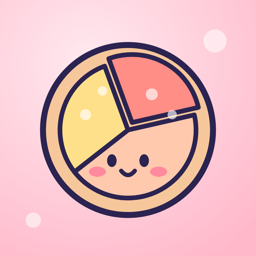
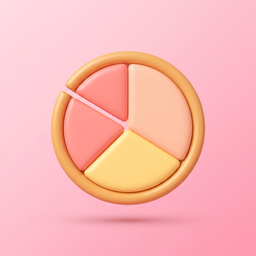
Product site on the new look; handoff rewritten to the current state

diff --git a/marketing/site/index.html b/marketing/site/index.html
@@ -37,7 +37,7 @@
 <div class="lang"><a href="?lang=en">EN</a><a href="?lang=ja">日本語</a></div>
 <main>
   <section class="hero">
-    <img class="icon" src="icon.png" alt="Real Quick icon — a pizza that is also a pie chart">
+    <img class="icon" src="icon.png" alt="Real Quick icon — a pizza that is a pie chart">
     <h1 data-i18n="h1">Snap your food.<br>That’s it.</h1>
     <p class="sub" data-i18n="sub">Real Quick – the fastest calorie tracker. One tap takes the photo; calories and macros appear while you eat.</p>
     <div id="live" class="cta" hidden>
@@ -62,7 +62,7 @@
   <section class="points">
     <div class="point"><b data-i18n="p1t">One button</b><span data-i18n="p1">Tap it and forget it. A live mini camera sits next to it, so the photo is instant.</span></div>
     <div class="point"><b data-i18n="p2t">Lock Screen snaps</b><span data-i18n="p2">Add the Snap widget or the iOS 18 control and track without even opening the app.</span></div>
-    <div class="point"><b data-i18n="p3t">A colour for every day</b><span data-i18n="p3">Pastel food doodles by day, a soft landscape by night. Swipe up and down through your week.</span></div>
+    <div class="point"><b data-i18n="p3t">A colour for every day</b><span data-i18n="p3">A soft colour and one object by day, a calm sheet by night. Swipe up and down through your week.</span></div>
     <div class="point"><b data-i18n="p4t">No account</b><span data-i18n="p4">Your diary stays on your phone. Photos are only used to count your food.</span></div>
   </section>
 
@@ -83,7 +83,7 @@
       email: 'メールアドレス', join: 'リリース時に知らせて', ok: '🍕 登録しました。リリース時に一度だけメールします。',
       p1t: 'ボタンひとつ', p1: 'タップしたら忘れてOK。横の小さなカメラで、すぐに撮影できます。',
       p2t: 'ロック画面から撮影', p2: '「撮影」ウィジェットやiOS 18のコントロールで、アプリを開かずに記録。',
-      p3t: '毎日ちがう色', p3: '昼はパステルの食べものイラスト、夜はやさしい景色。上下スワイプで1週間をめぐれます。',
+      p3t: '毎日ちがう色', p3: '昼はやさしい色とひとつのオブジェ、夜は落ち着いた画面。上下スワイプで1週間をめぐれます。',
       p4t: 'アカウント不要', p4: '記録は端末の中だけ。写真は計算のためだけに使われます。',
       privacy: 'プライバシー', support: 'サポート'
     }

diff --git a/HANDOFF.md b/HANDOFF.md
@@ -1,238 +1,57 @@
 # Real Quick — handoff
 
-Everything below needs your Apple ID, Google account, money, a decision only
-you should make, or credentials that were not available in the cloud session
-that built this (no `app-builder/.env`, no Mac, no VPS key). Everything else
-is done and committed: app, widgets, gateway + tests, icon, listings (en +
-ja), privacy audit, hosted pages, product site, store screenshots, the
-subscription review screenshot, the Play set and the portfolio SQL.
+State on 26 Oct 2026, after the redesign (soft-clay look, Plus Jakarta Sans,
+one soft-3D object per weekday, new icon — see `marketing/brand.md`).
 
-## The list
+## Done
 
-1. **Run the three deploys** the cloud session could not reach (gateway,
-   legal pages, product site + waitlist record).
-2. **Pick the AI model** (one env line on the server, no release needed).
-3. **Build and sign iOS** (team id, prebuild, archive).
-4. **App Store Connect:** agreement, app record, subscription products,
-   listing, submit.
-5. **Google Play:** app, subscriptions, service account, listing, submit.
-6. **Verify on real devices:** snap, widgets, trial.
+- **Gateway** live at `https://realquick.lab.karolkrakowski.pl` (VPS port
+  8099, `server/deploy.sh --key`), model Opus 5.5, `/healthz` ok.
+- **Legal pages** on karolkrakowski.pl (`apps/real-quick/privacy.htm`,
+  `support.htm`), **product site** + waitlist record, **Play feature
+  graphic** and 512 icon (`marketing/play/out/graphics/`).
+- **App Store Connect** (app id 6827108476), all through
+  `marketing/appstore/asc-setup.py`: free price, 175 territories, category,
+  copyright, en-US + ja listing, review contact and notes, both
+  subscriptions (group *Real Quick Pro*, prices in every territory — US
+  $4.99 / $29.99, Japan ¥800 / ¥5,000 — 1-week free trial, review
+  screenshots), age rating 4+. Screenshots: `asc-setup.py shots`.
+- **Builds**: 1 (the first look) and 2 (the redesign) uploaded with
+  `xcodebuild archive` + `-exportArchive` (`app/ios/build/ship/export.plist`);
+  signing through the Xcode account, team H85T7F9AS6. The widget target
+  compiles; both targets carry the App Group.
 
-Optional: the image prompts at the end, for richer brand art.
+## Before "Submit for Review"
 
----
+1. **Anthropic credits.** The key in `app-builder/.env` is out of credit;
+   every count answers `upstream`. App Review will snap a plate. Top up,
+   then check: a typed meal through `/v1/analyze` returns items.
+2. **App Privacy** answers in App Store Connect — not in the API. Fill from
+   `marketing/appstore/app-privacy.md`.
+3. Attach build 2 to version 1.0 and submit:
+   `app-builder/.venv/bin/python app-builder/asc.py version attach-build com.latovi.realquick --build 2`
+   then `… asc.py submit com.latovi.realquick`.
 
-### 1. Run the three deploys
+## Then
 
-Where: your Mac, in the workspace that has `app-builder/` with its `.env`
-Prereq: none
+- **Pick the model** (`/etc/realquick/gateway.env`, `MODEL=`, restart the
+  service). Opus 5.5 ships; Haiku 5.5 is ~40× cheaper and matters at ~10
+  photos a day per Pro user. `server/eval.py` compares them on your own
+  weighed meals.
+- **Google Play**: see `marketing/play/listing.md`; build with
+  `npx eas-cli build -p android --profile production`; receipt verification
+  needs a service-account JSON on the VPS (`GOOGLE_SERVICE_ACCOUNT_FILE`).
+- **Verify on devices**: snap, Lock Screen *Snap* widget and the iOS 18
+  control, Today widget, the trial with a sandbox account.
+- **Portfolio**: `python3 app-builder/portfolio.py real-quick` and
+  `marketing/portfolio.sql` once the app is live (needs the store link).
 
-1. `cd real-quick/server && ./deploy.sh --key` — installs the gateway on the
-   VPS (port 8099, checks the port is free first), writes
-   `/etc/realquick/gateway.env` with `ANTHROPIC_API_KEY` from
-   `app-builder/.env`, appends the Caddy block, pre-creates its log file.
-   Prints `/healthz`; expect `"key": true, "root": true`.
-2. `python3 app-builder/deploy-web.py` from `real-quick/` — uploads
-   `marketing/web/apps/real-quick/{privacy,support}.htm`. Then copy both files
-   into `~/src/karolkrakowski/apps/real-quick/` and commit them there
-   (WEBSITE.md §5 — the site deploys with `--delete`).
-3. `python3 app-builder/deploy-site.py realquick real-quick/marketing/site`,
-   then in `https://waitlist.lab.karolkrakowski.pl/_/` ▸ `apps` ▸ New record:
-   `slug = realquick`, `name = Real Quick`,
-   `site_url = https://realquick.lab.karolkrakowski.pl`.
-4. Portfolio: `python3 app-builder/portfolio.py real-quick` (uploads the
-   webp images), then paste `marketing/portfolio.sql` into phpMyAdmin.
+## Not done, honestly
 
-Verify: `curl https://realquick.lab.karolkrakowski.pl/healthz`; both legal
-URLs return 200; the site shows the waitlist form (`?force=live` shows badges).
-
-### 2. Pick the AI model
-
-Where: the VPS, `/etc/realquick/gateway.env`
-Prereq: 1
-
-You asked about Perplexity, so here is the comparison I based the design on:
-
-- **Perplexity (Sonar)** accepts images but is built around web search; every
-  call pays a per-request search fee on top of tokens, answers are slower, and
-  structured JSON is less reliable. Its real strength — looking up branded or
-  restaurant items — matters for *typed* meals, not photos. Supported as
-  `PROVIDER=perplexity` if you want to try it.
-- **Claude** (default, `PROVIDER=anthropic`): strong vision, guaranteed JSON
-  via structured outputs, prompt caching, and the key is already in
-  `app-builder/.env`. Per photo: Haiku 5.5 ≈ $0.0004, Sonnet 5.5 ≈ $0.007,
-  Opus 5.5 ≈ $0.014.
-- Dedicated food APIs (Passio, LogMeal, Calorie Mama, CaloAI) exist; they add a
-  vendor and per-call pricing without beating a frontier vision model on mixed
-  plates, so they're not used.
-
-The gateway ships with **Opus 5.5** (most capable), but at ~10 photos a day a
-Pro user would cost about as much as the subscription brings in. Haiku 5.5 is
-~40× cheaper and faster, which matters for "the fastest calorie tracker". Decide
-with your own data:
-
-1. Photograph 10–20 meals you weighed; put them in a folder with
-   `truth.csv` (`file,kcal`).
-2. `ANTHROPIC_API_KEY=… python3 server/eval.py <folder> claude-haiku-5-5 claude-sonnet-5-5 claude-opus-5-5`
-3. Set `MODEL=<winner>` in `/etc/realquick/gateway.env`,
-   `systemctl restart realquick-gateway`.
-
-Verify: `/healthz` shows the new model; a snap in the app counts in a few
-seconds.
-
-### 3. Build and sign iOS
-
-Where: Mac with Xcode, `real-quick/app`
-Prereq: none (2 for meaningful counts)
-
-1. Add your team id to `app/app.json` → `expo.ios.appleTeamId` (Xcode ▸
-   Settings ▸ Accounts ▸ team ▸ the 10-character id). The widget target needs it.
-2. `cd app && npm install && npx expo prebuild --clean`
-3. `open ios/RealQuick.xcworkspace` ▸ for **RealQuick** and
-   **RealQuickWidgets** targets ▸ Signing & Capabilities ▸ your team,
-   "Automatically manage signing" — this registers both bundle ids and the App
-   Group `group.com.latovi.realquick.shared`.
-4. Scheme ▸ Edit Scheme ▸ Run ▸ Options ▸ StoreKit Configuration ▸
-   `RealQuick.storekit` (in `app/`) to test the paywall locally.
-5. Run once on the "Upbell Capture" simulator (no new simulators). The widget
-   Swift code (`app/targets/widget/*.swift`) was written without a Mac in reach,
-   so this is its first compile — if Xcode flags anything, it will be in those
-   three files.
-6. Product ▸ Archive ▸ Distribute App ▸ App Store Connect ▸ Upload.
-   (Or `npx eas-cli build -p ios --profile production` + `eas submit`.)
-
-Verify: the archive uploads; TestFlight shows build 1 (version 1.0.0).
-
-### 4. App Store Connect
-
-Where: appstoreconnect.apple.com
-Prereq: 3
-
-1. Business ▸ Paid Applications agreement (skip if already active).
-2. Apps ▸ + ▸ New App: iOS, name `Real Quick – Calorie Tracker`, primary
-   language English (U.S.), bundle id `com.latovi.realquick`, SKU `realquick`.
-3. Monetization ▸ Subscriptions ▸ create group **Real Quick Pro**, then the two
-   products exactly as the table in `marketing/appstore/listing.md` →
-   *Subscription products* (ids, prices, 1-week free intro offer, en + ja
-   display names/descriptions). Upload
-   `marketing/appstore/subscription-review.png` as each product's review
-   screenshot. Note the JPY prices ASC shows and update the ja description's
-   ¥ figures in `listing.md` if they differ.
-4. App Store tab ▸ English (U.S.): paste name, subtitle, promotional text,
-   description, keywords, URLs from `listing.md`; upload
-   `marketing/appstore/out/en-US/01–05.png`. Add language ▸ Japanese: same
-   from the ja section + `out/ja/`.
-5. App Privacy: answer exactly as `marketing/appstore/app-privacy.md`.
-6. Age rating: as `listing.md` → *Age rating*. Category Health & Fitness.
-7. App Review Information: paste the notes from `listing.md` (they explain
-   why the app is simple on purpose and how to exercise every feature), your
-   phone number; no demo account (there are no accounts).
-8. Attach build 1 **and both subscriptions** to version 1.0 ▸ Submit.
-
-Verify: status "Waiting for Review" with both subscriptions attached.
-
-### 5. Google Play
-
-Where: play.google.com/console
-Prereq: none
-
-1. Create app `Real Quick – Calorie Tracker`, default language en-US, free
-   app with in-app purchases.
-2. Build: `cd app && npx eas-cli build -p android --profile production`
-   (EAS creates and keeps the upload key) and upload the `.aab` to an internal
-   testing track (Play needs one upload before subscriptions can be created).
-3. Monetize ▸ Subscriptions: the two products + base plans + `trial-1w`
-   offers from `marketing/play/listing.md`.
-4. Receipt verification: Google Cloud ▸ service account with the Play
-   Developer API enabled; Play Console ▸ Users and permissions ▸ invite it
-   with "View financial data / Manage orders". Put the JSON key on the VPS at
-   `/etc/realquick/play-service-account.json` (owner root, group realquick,
-   0640), uncomment `GOOGLE_SERVICE_ACCOUNT_FILE` in
-   `/etc/realquick/gateway.env`, restart the gateway.
-5. Store listing (en + ja), graphics (`marketing/play/out/…`, icon from
-   `marketing/brand/icon.svg`), Data safety + content rating from
-   `marketing/play/listing.md`. Promote to production.
-
-Verify: a sandbox/licence-tester purchase turns on Pro; the gateway log shows
-no "play token accepted unverified" line.
-
-### 6. Verify on real devices
-
-Prereq: 2–5
-
-- iPhone: complete onboarding, snap a plate (counts within seconds), swipe
-  left, type "2 eggs and toast" (instant), start the trial with a sandbox
-  account — confirm "1 week free" and "You won't be charged today".
-- Lock Screen: add **Snap** (circular) — tap it, unlock, the photo is taken
-  automatically. On iOS 18 add the **Snap food** control in place of the
-  flashlight. Add the Today widget (small/medium) and check it updates after a
-  snap.
-- Android: add the 1×1 **Snap** widget — one tap opens the camera, snaps,
-  shows "Got it!" and closes back to the home screen.
-
----
-
-## What is not done, honestly
-
-- **iOS has no camera-from-a-locked-phone mode.** The widget and control open
-  the app, which requires unlocking (Face ID makes that a glance), then snap
-  instantly. A true no-unlock capture needs a *LockedCameraCapture* extension
-  (iOS 18), which the Expo targets plugin cannot generate yet and which can't
-  reach the network while locked (photos would wait until the next unlock). Worth
-  a v1.1 written natively in Xcode.
-- **iOS cannot close itself** after a widget snap (Apple forbids it); Android
-  does.
-- **Android "without opening the app"** is not possible for a camera photo
-  (Android requires a visible activity to use the camera); it opens, snaps,
-  confirms and closes in about two seconds.
-- Not compiled in this session: the Swift widget target (no Mac) and the
-  Android build (no Android SDK). Both config plugins were validated with
-  `expo prebuild` for iOS and Android; the JS/TS app typechecks, 25 Jest tests
-  and 15 gateway tests pass, and every screen was exercised end to end in the
-  web build against a local gateway.
-
----
-
-## Image prompts (optional — run with Higgsfield on your Mac)
-
-The shipped app draws all its art in code, so none of this is required. These
-give the brand a sticker-quality mascot set for the website, launch email and
-Play feature graphic. Model: `nano_banana_pro`; save results to
-`marketing/brand-art/raw/`, keep the hero as the `--image` reference for every
-later pose; cut out with `image_background_remover`.
-
-1. **Hero mascot** (reference for all others):
-   > Cute pizza mascot character that is also a pie chart, three pastel
-   > wedges in coral pink, soft peach and butter yellow inside a toasted
-   > golden crust, one wedge slightly pulled out like a slice being grabbed,
-   > flat 2D vector sticker illustration, thick dark navy outline, slightly
-   > hand-drawn line, two simple black oval eyes and pink blush cheeks on the
-   > big peach wedge, tiny smile, thick white sticker border, solid blush pink
-   > (#FFB8CA) background, kawaii, minimal, no text, centered, plenty of margin
-2. **Pose sheet** — hero prompt + `--image hero.png` +
-   > character sheet, six poses: neutral, waving, thinking, celebrating,
-   > sleeping, sad-but-hopeful, same character, consistent style, white background
-3. **Weekday doodle sets** (one per day, for the website and share cards):
-   > Seamless scatter of cute pastel food doodles: [avocados, pea pods and
-   > kiwi slices | peaches, croissants and carrots | grapes, plums and
-   > macarons | bananas, lemons and fried eggs | strawberries, donuts and
-   > cherries | blueberries, ice cream cones and cupcakes | pizza slices,
-   > tomatoes and pears], some with tiny dot eyes and blush, flat 2D, soft
-   > dark navy outlines, generous spacing, solid [#CFF2E2 | #FFDCC9 | #E4DCFF
-   > | #FFF1B8 | #FFD8E6 | #D3ECFF | #E2F0C6] background, no text
-4. **Night landscape**:
-   > Minimal line-art night landscape, soft rolling pastel hills, a tiny
-   > white house with one warm yellow window, three simple pine trees, a
-   > crescent moon and small plus-shaped stars, thin dark navy lines, mostly
-   > white background, calm and cozy, flat 2D, no text, wide 9:19 portrait
-5. **App icon alternative** (only if you prefer a painted icon over the
-   vector one in `marketing/brand/icon.svg`):
-   > App icon, a blush-pink, non-realistic cute pizza seen from above that
-   > reads as a pie chart with three pastel wedges (coral, peach, butter
-   > yellow), one wedge slightly pulled out, kawaii face with dot eyes and
-   > blush on the largest wedge, thick navy outline, flat 2D, soft blush pink
-   > gradient background, centered, no text, no border, 1024×1024
-6. **Play feature graphic** (1024×500):
-   > Wide banner, blush pink gradient, the pizza pie-chart mascot on the left
-   > waving, three floating pastel food doodles, lots of empty space on the
-   > right for a headline, flat 2D sticker style, no text
+- iOS has no camera-from-a-locked-phone mode (needs a LockedCameraCapture
+  extension written natively — v1.1). iOS cannot close itself after a widget
+  snap; Android does.
+- Android has not been built on this machine (no SDK); EAS builds it.
+- The web preview and the store captures are the real app rendered with
+  react-native-web; the native build was compiled and archived but not run on
+  a device by me.
